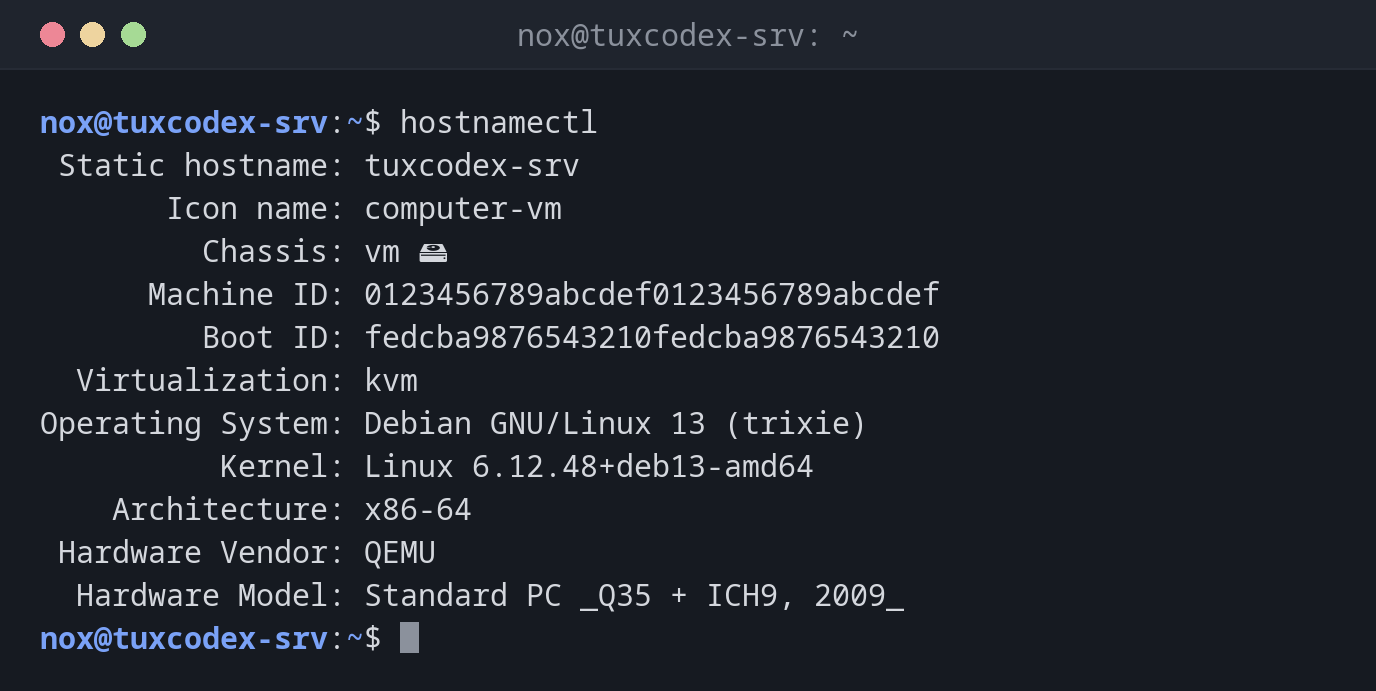
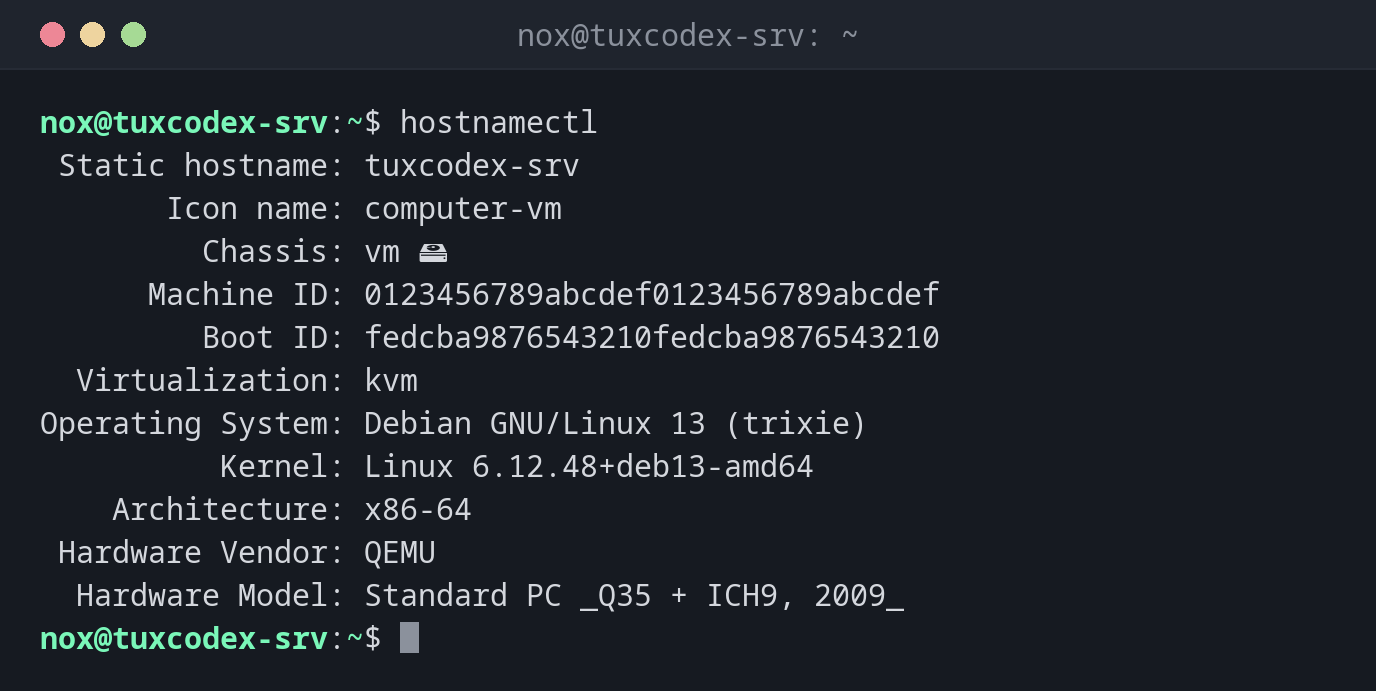
style: change accent color to mint (#7af7b9)

Changed region(s): [[0.0312, 0.152, 0.25, 0.2127], [0.0312, 0.9117, 0.25, 0.9421]]

diff --git a/docs/stylesheets/tuxcodex.css b/docs/stylesheets/tuxcodex.css
@@ -1,12 +1,12 @@
-/* TuxCodex dark theme: neutral dark grey with a soft blue accent */
+/* TuxCodex dark theme: neutral dark grey with a soft mint accent */
 [data-md-color-scheme="slate"] {
   --tc-bg: #0f1115;
   --tc-surface: #161a21;
   --tc-border: #262b35;
   --tc-text: #d4d7dd;
   --tc-muted: #8b919c;
-  --tc-accent: #7aa2f7;
-  --tc-accent-light: #a3bffa;
+  --tc-accent: #7af7b9;
+  --tc-accent-light: #a6fad1;
 
   --md-hue: 220;
   --md-default-bg-color: var(--tc-bg);
@@ -18,7 +18,7 @@
   --md-primary-bg-color: var(--tc-text);
   --md-primary-bg-color--light: var(--tc-muted);
   --md-accent-fg-color: var(--tc-accent-light);
-  --md-accent-fg-color--transparent: rgba(122, 162, 247, 0.1);
+  --md-accent-fg-color--transparent: rgba(122, 247, 185, 0.1);
   --md-typeset-a-color: var(--tc-accent);
   --md-code-bg-color: var(--tc-surface);
   --md-footer-bg-color: var(--tc-surface);
@@ -54,7 +54,7 @@
   padding-bottom: 0.2em;
 }
 
-.md-typeset blockquote {
+[dir] .md-typeset blockquote {
   border-left-color: var(--tc-accent);
   color: var(--tc-muted);
 }

diff --git a/scripts/screenshots.py b/scripts/screenshots.py
@@ -31,7 +31,7 @@ TITLE_BG = "#1f242d"
 BORDER = "#262b35"
 TEXT = "#d4d7dd"
 MUTED = "#8b919c"
-ACCENT = "#7aa2f7"
+ACCENT = "#7af7b9"
 DOTS = ("#ed8796", "#eed49f", "#a6da95")
 
 SCALE = 2
